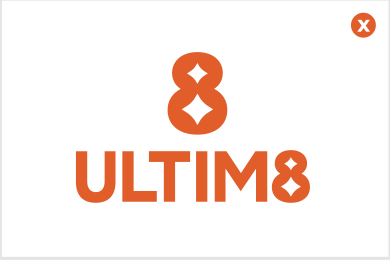
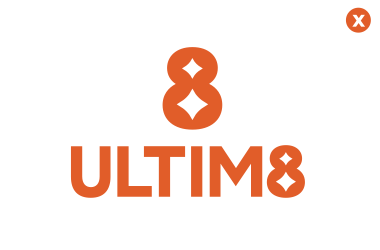
Do's and Don'ts: orange section, shorter text, no grey lines, slider arrows

diff --git a/aisle-01.html b/aisle-01.html
@@ -3,13 +3,13 @@
 <head>
 <meta charset="utf-8">
 <meta name="viewport" content="width=device-width, initial-scale=1">
-<meta name="u8-version" content="27">
-<script>/* always show the latest published version */(function(){var v='27';fetch(location.pathname+'?nc='+Date.now(),{cache:'no-store'}).then(function(r){return r.text()}).then(function(t){var m=t.match(/name="u8-version" content="(\d+)"/);if(m&&m[1]!==v&&sessionStorage.getItem('u8r')!==m[1]){sessionStorage.setItem('u8r',m[1]);location.replace(location.pathname+'?v='+m[1]+location.hash)}}).catch(function(){})})();</script>
+<meta name="u8-version" content="28">
+<script>/* always show the latest published version */(function(){var v='28';fetch(location.pathname+'?nc='+Date.now(),{cache:'no-store'}).then(function(r){return r.text()}).then(function(t){var m=t.match(/name="u8-version" content="(\d+)"/);if(m&&m[1]!==v&&sessionStorage.getItem('u8r')!==m[1]){sessionStorage.setItem('u8r',m[1]);location.replace(location.pathname+'?v='+m[1]+location.hash)}}).catch(function(){})})();</script>
 <title>Primary — ULTIM8 Brand Guidelines</title>
 <meta name="description" content="ULTIM8 Brand Guidelines, Aisle 01: Brand Overview.">
 <link rel="icon" href="assets/brand/favicon.svg" type="image/svg+xml">
 <link rel="stylesheet" href="https://use.typekit.net/bsr5idk.css">
-<link rel="stylesheet" href="css/site.css?v=26">
+<link rel="stylesheet" href="css/site.css?v=27">
 </head>
 <body class="" data-page="01">
 <header class="nav" id="siteHeader">
@@ -61,19 +61,17 @@
   </div>
   <div class="dd reveal" id="logo-dos">
     <h3>Do’s</h3>
-    <div class="dd__stage" id="doStage"><i data-u8="wordmark"></i></div>
+    <div class="dd__view"><div class="dd__stage" id="doStage"><i data-u8="wordmark"></i></div><button class="dd__arrow dd__arrow--prev" data-dd="do" data-step="-1" aria-label="Previous">‹</button><button class="dd__arrow dd__arrow--next" data-dd="do" data-step="1" aria-label="Next">›</button></div>
     <p class="dd__name" id="doName"></p>
     <div class="dd__grid" id="doGrid"></div>
     <p class="hint">Tap a thumbnail to see each approved use.</p>
     <div class="dd__copy">
-      <p>The black and white logo variations provide versatility, clarity, and adaptability across a broader range of brand communications. They are used when the primary orange color is unsuitable, or when stronger contrast is required.</p>
-      <p>Single-color variations offer a cost-effective and practical solution for applications with limited printing capabilities. Eliminate color inconsistencies caused by varying production methods.</p>
-      <p>Black and white variations are preferred when contrast, simplicity, or production requirements take priority Can be used in image overlays, editorial layouts, and photographic advertisements, black-and-white documents, and receipts.</p>
+      <p>The black and white logo variations provide versatility, clarity, and adaptability across a broader range of brand communications. They are used when the primary orange color is unsuitable, or when stronger contrast is required. Single-color variations offer a cost-effective solution for limited printing capabilities and eliminate color inconsistencies. They can be used in image overlays, editorial layouts, photographic advertisements, black-and-white documents, and receipts.</p>
     </div>
   </div>
   <div class="dd reveal" id="expired-logo">
     <h3>Don’ts</h3>
-    <div class="dd__stage dd__stage--img" id="dontStage"><img id="dontImg" src="assets/img/book/donts/dont-1.png" alt=""></div>
+    <div class="dd__view"><div class="dd__stage dd__stage--img" id="dontStage"><img id="dontImg" src="assets/img/book/donts/dont-1.png" alt=""></div><button class="dd__arrow dd__arrow--prev" data-dd="dont" data-step="-1" aria-label="Previous">‹</button><button class="dd__arrow dd__arrow--next" data-dd="dont" data-step="1" aria-label="Next">›</button></div>
     <p class="dd__name" id="dontName"></p>
     <div class="dd__grid" id="dontGrid"></div>
     <p class="hint">Tap a thumbnail to see each incorrect use.</p>
@@ -189,6 +187,6 @@
 <div class="toast" id="toast" role="status" aria-live="polite"></div>
 <script src="assets/brand/svg/marks.js?v=3"></script>
 <script src="assets/brand/u8.js?v=3"></script>
-<script src="js/site.js?v=6"></script>
+<script src="js/site.js?v=7"></script>
 </body>
 </html>

diff --git a/index.html b/index.html
@@ -3,13 +3,13 @@
 <head>
 <meta charset="utf-8">
 <meta name="viewport" content="width=device-width, initial-scale=1">
-<meta name="u8-version" content="27">
-<script>/* always show the latest published version */(function(){var v='27';fetch(location.pathname+'?nc='+Date.now(),{cache:'no-store'}).then(function(r){return r.text()}).then(function(t){var m=t.match(/name="u8-version" content="(\d+)"/);if(m&&m[1]!==v&&sessionStorage.getItem('u8r')!==m[1]){sessionStorage.setItem('u8r',m[1]);location.replace(location.pathname+'?v='+m[1]+location.hash)}}).catch(function(){})})();</script>
+<meta name="u8-version" content="28">
+<script>/* always show the latest published version */(function(){var v='28';fetch(location.pathname+'?nc='+Date.now(),{cache:'no-store'}).then(function(r){return r.text()}).then(function(t){var m=t.match(/name="u8-version" content="(\d+)"/);if(m&&m[1]!==v&&sessionStorage.getItem('u8r')!==m[1]){sessionStorage.setItem('u8r',m[1]);location.replace(location.pathname+'?v='+m[1]+location.hash)}}).catch(function(){})})();</script>
 <title>ULTIM8 — Brand Guidelines</title>
 <meta name="description" content="ULTIM8 interactive brand guidelines. Your ULTIM8 guide to getting it all right!">
 <link rel="icon" href="assets/brand/favicon.svg" type="image/svg+xml">
 <link rel="stylesheet" href="https://use.typekit.net/bsr5idk.css">
-<link rel="stylesheet" href="css/site.css?v=26">
+<link rel="stylesheet" href="css/site.css?v=27">
 </head>
 <body class="is-home" data-page="home">
 <header class="nav" id="siteHeader">
@@ -134,6 +134,6 @@
 <div class="toast" id="toast" role="status" aria-live="polite"></div>
 <script src="assets/brand/svg/marks.js?v=3"></script>
 <script src="assets/brand/u8.js?v=3"></script>
-<script src="js/site.js?v=6"></script>
+<script src="js/site.js?v=7"></script>
 </body>
 </html>

diff --git a/aisle-03.html b/aisle-03.html
@@ -3,13 +3,13 @@
 <head>
 <meta charset="utf-8">
 <meta name="viewport" content="width=device-width, initial-scale=1">
-<meta name="u8-version" content="27">
-<script>/* always show the latest published version */(function(){var v='27';fetch(location.pathname+'?nc='+Date.now(),{cache:'no-store'}).then(function(r){return r.text()}).then(function(t){var m=t.match(/name="u8-version" content="(\d+)"/);if(m&&m[1]!==v&&sessionStorage.getItem('u8r')!==m[1]){sessionStorage.setItem('u8r',m[1]);location.replace(location.pathname+'?v='+m[1]+location.hash)}}).catch(function(){})})();</script>
+<meta name="u8-version" content="28">
+<script>/* always show the latest published version */(function(){var v='28';fetch(location.pathname+'?nc='+Date.now(),{cache:'no-store'}).then(function(r){return r.text()}).then(function(t){var m=t.match(/name="u8-version" content="(\d+)"/);if(m&&m[1]!==v&&sessionStorage.getItem('u8r')!==m[1]){sessionStorage.setItem('u8r',m[1]);location.replace(location.pathname+'?v='+m[1]+location.hash)}}).catch(function(){})})();</script>
 <title>Experiential — ULTIM8 Brand Guidelines</title>
 <meta name="description" content="ULTIM8 Brand Guidelines, Aisle 03: Secondary Identity.">
 <link rel="icon" href="assets/brand/favicon.svg" type="image/svg+xml">
 <link rel="stylesheet" href="https://use.typekit.net/bsr5idk.css">
-<link rel="stylesheet" href="css/site.css?v=26">
+<link rel="stylesheet" href="css/site.css?v=27">
 </head>
 <body class="" data-page="03">
 <header class="nav" id="siteHeader">
@@ -163,6 +163,6 @@
 <div class="toast" id="toast" role="status" aria-live="polite"></div>
 <script src="assets/brand/svg/marks.js?v=3"></script>
 <script src="assets/brand/u8.js?v=3"></script>
-<script src="js/site.js?v=6"></script>
+<script src="js/site.js?v=7"></script>
 </body>
 </html>

diff --git a/aisle-02.html b/aisle-02.html
@@ -3,13 +3,13 @@
 <head>
 <meta charset="utf-8">
 <meta name="viewport" content="width=device-width, initial-scale=1">
-<meta name="u8-version" content="27">
-<script>/* always show the latest published version */(function(){var v='27';fetch(location.pathname+'?nc='+Date.now(),{cache:'no-store'}).then(function(r){return r.text()}).then(function(t){var m=t.match(/name="u8-version" content="(\d+)"/);if(m&&m[1]!==v&&sessionStorage.getItem('u8r')!==m[1]){sessionStorage.setItem('u8r',m[1]);location.replace(location.pathname+'?v='+m[1]+location.hash)}}).catch(function(){})})();</script>
+<meta name="u8-version" content="28">
+<script>/* always show the latest published version */(function(){var v='28';fetch(location.pathname+'?nc='+Date.now(),{cache:'no-store'}).then(function(r){return r.text()}).then(function(t){var m=t.match(/name="u8-version" content="(\d+)"/);if(m&&m[1]!==v&&sessionStorage.getItem('u8r')!==m[1]){sessionStorage.setItem('u8r',m[1]);location.replace(location.pathname+'?v='+m[1]+location.hash)}}).catch(function(){})})();</script>
 <title>Secondary — ULTIM8 Brand Guidelines</title>
 <meta name="description" content="ULTIM8 Brand Guidelines, Aisle 02: Primary Identity.">
 <link rel="icon" href="assets/brand/favicon.svg" type="image/svg+xml">
 <link rel="stylesheet" href="https://use.typekit.net/bsr5idk.css">
-<link rel="stylesheet" href="css/site.css?v=26">
+<link rel="stylesheet" href="css/site.css?v=27">
 </head>
 <body class="" data-page="02">
 <header class="nav" id="siteHeader">
@@ -190,6 +190,6 @@
 <div class="toast" id="toast" role="status" aria-live="polite"></div>
 <script src="assets/brand/svg/marks.js?v=3"></script>
 <script src="assets/brand/u8.js?v=3"></script>
-<script src="js/site.js?v=6"></script>
+<script src="js/site.js?v=7"></script>
 </body>
 </html>

diff --git a/js/site.js b/js/site.js
@@ -140,6 +140,7 @@
       'Don’t use an outline-only logo', 'Don’t use low-contrast colors', 'Don’t place it on busy patterns'
     ];
     const doStage = $('#doStage'), doGrid = $('#doGrid'), dontImg = $('#dontImg'), dontGrid = $('#dontGrid');
+    const cur = { do: 0, dont: 0 };
     const paint = (el, d) => {
       el.style.background = d.bg;
       el.style.boxShadow = d.bg === 'var(--white)' ? 'inset 0 0 0 1px var(--grey)' : 'none';
@@ -153,7 +154,8 @@
     function setDo(i) {
       const d = DOS[i];
       doStage.className = 'dd__stage ' + (d.cls || '') + (d.small ? ' is-small' : '');
-      paint(doStage, d); doStage.querySelector('svg').style.color = d.logo;
+      paint(doStage, d); doStage.style.boxShadow = 'none'; doStage.querySelector('svg').style.color = d.logo;
+      cur.do = i;
       $('#doName').textContent = d.name;
       $$('button', doGrid).forEach((b, j) => b.classList.toggle('is-on', j === i));
     }
@@ -164,9 +166,15 @@
     });
     function setDont(i) {
       dontImg.src = `assets/img/book/donts/dont-${i + 1}.png`; dontImg.alt = DONTS[i];
+      cur.dont = i;
       $('#dontName').textContent = DONTS[i];
       $$('button', dontGrid).forEach((b, j) => b.classList.toggle('is-on', j === i));
     }
+    /* slider arrows: step left / right through each container */
+    $$('.dd__arrow').forEach(a => a.addEventListener('click', () => {
+      const k = a.dataset.dd, n = k === 'do' ? DOS.length : DONTS.length, i = (cur[k] + +a.dataset.step + n) % n;
+      (k === 'do' ? setDo : setDont)(i);
+    }));
     setDo(0); setDont(0);
   });
 

diff --git a/kiosk/index.html b/kiosk/index.html
@@ -3,8 +3,8 @@
 <head>
 <meta charset="utf-8">
 <meta name="viewport" content="width=device-width, initial-scale=1, user-scalable=no">
-<meta name="u8-version" content="27">
-<script>/* always show the latest published version */(function(){var v='27';fetch(location.pathname+'?nc='+Date.now(),{cache:'no-store'}).then(function(r){return r.text()}).then(function(t){var m=t.match(/name="u8-version" content="(\d+)"/);if(m&&m[1]!==v&&sessionStorage.getItem('u8r')!==m[1]){sessionStorage.setItem('u8r',m[1]);location.replace(location.pathname+'?v='+m[1]+location.hash)}}).catch(function(){})})();</script>
+<meta name="u8-version" content="28">
+<script>/* always show the latest published version */(function(){var v='28';fetch(location.pathname+'?nc='+Date.now(),{cache:'no-store'}).then(function(r){return r.text()}).then(function(t){var m=t.match(/name="u8-version" content="(\d+)"/);if(m&&m[1]!==v&&sessionStorage.getItem('u8r')!==m[1]){sessionStorage.setItem('u8r',m[1]);location.replace(location.pathname+'?v='+m[1]+location.hash)}}).catch(function(){})})();</script>
 <title>ULTIM8 — AI Kiosk</title>
 <link rel="icon" href="../assets/brand/favicon.svg" type="image/svg+xml">
 <link rel="stylesheet" href="https://use.typekit.net/bsr5idk.css">

diff --git a/css/site.css b/css/site.css
@@ -871,3 +871,13 @@ input[type=range] { width: 100%; accent-color: var(--orange); }
 #logo-dos { grid-column: 1 / span 6; grid-row: 3; }
 #expired-logo.dd { grid-column: 7 / -1; grid-row: 3; }
 @media (max-width: 860px) { #logo-dos, #expired-logo.dd { grid-column: 1 / -1; grid-row: auto; } }
+
+/* Logo Do's and Don'ts: orange section, clean enlarged views, slider arrows */
+#new-batch { background: var(--orange); color: var(--white); }
+#new-batch .dd { color: var(--ink); }
+#new-batch .sparks { color: var(--white); }
+.dd__stage--img { box-shadow: none; }
+.dd__view { position: relative; }
+.dd__arrow { position: absolute; top: 50%; transform: translateY(-50%); z-index: 2; width: 40px; height: 40px; border: 0; border-radius: var(--btn-r); background: var(--white); color: var(--orange); font-size: 26px; line-height: 1; font-weight: 600; cursor: pointer; display: grid; place-items: center; box-shadow: 0 2px 10px rgba(17,17,17,.15); transition: background .2s, color .2s; }
+.dd__arrow:hover { background: var(--orange); color: var(--white); }
+.dd__arrow--prev { left: 12px; } .dd__arrow--next { right: 12px; }
